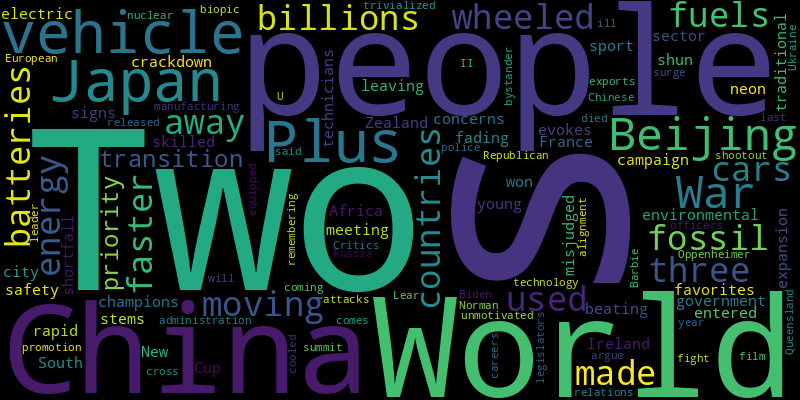
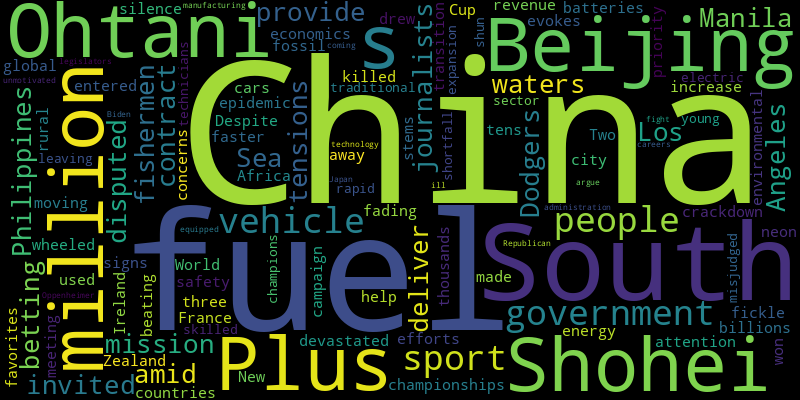
chore(bot): 🟩 auto commit

diff --git a/README.md b/README.md
@@ -4,39 +4,39 @@ Auto RSS New York Times and Generate Word Cloud
 ## New York Times Global News
 * Prime Minister Benjamin Netanyahu gambled that a strong Hamas (but not too strong) would keep the peace and reduce pressure for a Palestinian state.
 * President Abdel Fattah el-Sisi of Egypt grew increasingly unpopular amid a deep economic crisis. But the war in neighboring Gaza has given him a vital role on the international stage.
-* Anton Thomas, a New Zealander in Melbourne, Australia, has given three years of his life to a hand-drawn map of our planet and its animal inhabitants.
-* In bitter debates from Israel to Africa to America, invoking a brutal history has become a powerful accusation.
-* Fighting in Khan Younis, the southern city where Israel believes Hamas’s leaders are hiding, has intensified, the Israeli military said.
 * Iran-backed forces are assembling drones and retrofitting rockets in the territory of an American ally. They are used in attacks on U.S. outposts in Iraq and Syria.
+* At the ceremony in Oslo, the Iranian activist’s twins also read a speech from their mother calling for a “globalization of peace and human rights.”
+* In bitter debates from Israel to Africa to America, invoking a brutal history has become a powerful accusation.
+* Meatless menus used to be an oddity in Germany’s capital. Today, Berlin is bursting with creative vegan options, including Spanish tapas, Berliner-style doughnuts and even fast food.
+* Anton Thomas, a New Zealander in Melbourne, Australia, has given three years of his life to a hand-drawn map of our planet and its animal inhabitants.
+* Tens of thousands of Gazans have fled south to the border area. Aid officials say conditions there could force Palestinians to cross.
 * At least 14 people were killed in a clash between the gunmen and members of a small farming community in central Mexico, an episode that the state authorities cast as a gang extortion attempt that backfired.
 * A government crackdown on neon signs stems from safety and environmental concerns, but the campaign evokes the fading of the city itself.
-* It has gained prestige among Palestinians while poisoning Israel’s relations with the Arab world and putting the Palestinian issue back on the Western agenda.
-* The annual U.N. talks have brought the rare spectacle of limited protests to the politically repressive United Arab Emirates.
 
 ![Global](./global.png)
 ## New York Times United States News
-* The president, Elizabeth Magill, and the chairman of the board of trustees, Scott L. Bok, are leaving after intense pressure from donors, politicians and alumni.
-* Ms. Magill, who had been in her post since last year, stepped down four days after testifying before Congress.
-* The presidents of Harvard, M.I.T. and Penn faced a barrage of questions at a congressional hearing. Here are some of the most pointed exchanges.
-* Mr. Whitmire, a state senator, prevailed over U.S. Representative Sheila Jackson Lee to lead the nation’s fourth-largest city.
-* Republicans have been attacking elite universities for years. After a tense congressional hearing last week, many on the left are joining them.
-* From the halls of Congress to America’s streets and universities, a once largely academic issue has roiled national discourse, inciting accusations of bigotry and countercharges of bullying.
-* A federal jury will be selected to decide how much Rudolph Giuliani should pay for spreading lies about two Georgia election workers as he fought to keep Donald Trump in office.
-* Communities across the U.S. are fueling a secondary arms market by giving seized and surrendered guns to disposal services that destroy one part and resell the rest.
-* The Iowa Republican Party reminded supporters that only residents can vote in the first-in-the-nation caucuses, which will be held on Jan. 15.
-* The rivals for the Republican presidential nomination — minus Donald Trump — appeared at a “faith and family” event and talked in more personal terms.
+* Claudine Gay, Harvard’s president, faced rising pressure after her answers to questions about antisemitism. Some faculty members signed a petition supporting her.
+* Storms and tornadoes left a swath of destruction that included parts of Clarksville, where three people died, and near Nashville, where three others were killed.
+* There is no medical examiner’s office in the world like the one in Los Angeles County, where investigations of sudden celebrity deaths come with the territory.
+* One day after the resignations of the university president and chairman, students and professors reflected on the continuing division at the school.
+* More tenants than ever spend half or more of their income for shelter, leaving less for everything else, taking an emotional toll and leaving some without a place to call their own.
+* Medical scientists and the military are looking into whether Robert Card’s psychological collapse was linked to brain damage from his role as a grenade instructor.
+* Tammy Lacher Scully’s adult son disappeared 18 months ago from a psychiatric hospital in Bangor. It has fallen on her to keep the search going.
+* The special counsel Jack Smith told the judge she should keep the trial’s start date in March and continue making decisions as the former president appeals one of her rulings.
+* Officials announced that the Ukrainian president would travel to Washington on Tuesday for a last-ditch lobbying effort with President Biden and members of Congress.
+* The president was back on the fund-raising trail in Los Angeles this weekend after a hiatus because of the writers’ and actors’ strikes.
 
 ![US](./usnews.png)
 ## New York Times Asia News
+* The Philippines invited journalists on a mission to provide fuel to fishermen in disputed waters of the South China Sea amid tensions between Beijing and Manila.
+* Plus, Shohei Ohtani’s $700 million contract
+* The Los Angeles Dodgers are betting $700 million that Shohei Ohtani can deliver championships and help increase revenue. But the economics of sports can be fickle.
+* Despite government efforts to silence her, she drew global attention to an epidemic that devastated rural China and killed tens of thousands.
 * Two- and three-wheeled vehicles, used by billions of people, are moving away from fossil fuels to batteries faster than cars in countries that have made the energy transition a priority.
 * A government crackdown on neon signs stems from safety and environmental concerns, but the campaign evokes the fading of the city itself.
 * Ireland and France entered the World Cup as favorites, but South Africa won it by beating New Zealand in a meeting of the sport’s traditional champions.
 * China misjudged the rapid expansion of its electric vehicle sector, leaving a shortfall of skilled technicians as young people shun manufacturing careers.
 * Plus, “Oppenheimer” is coming to Japan.
 * Republican legislators argue that the Biden administration has been ill-equipped and unmotivated in a technology fight with Beijing.
-* Critics said the film’s cross-promotion with “Barbie” trivialized the U.S. nuclear attacks on Japan during World War II, but the biopic will be released in 2024.
-* The European summit with China’s leader comes as relations have cooled over Beijing’s alignment with Russia in its war on Ukraine and a surge in Chinese exports.
-* Two police officers and a bystander died in the shootout in Queensland last year.
-* Plus, remembering Norman Lear.
 
 ![Asian](./asian.png)
